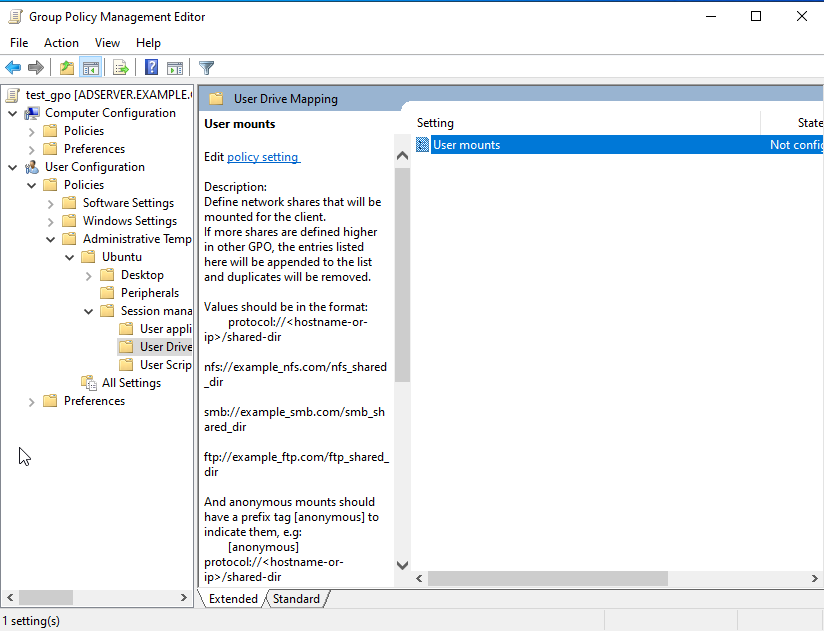
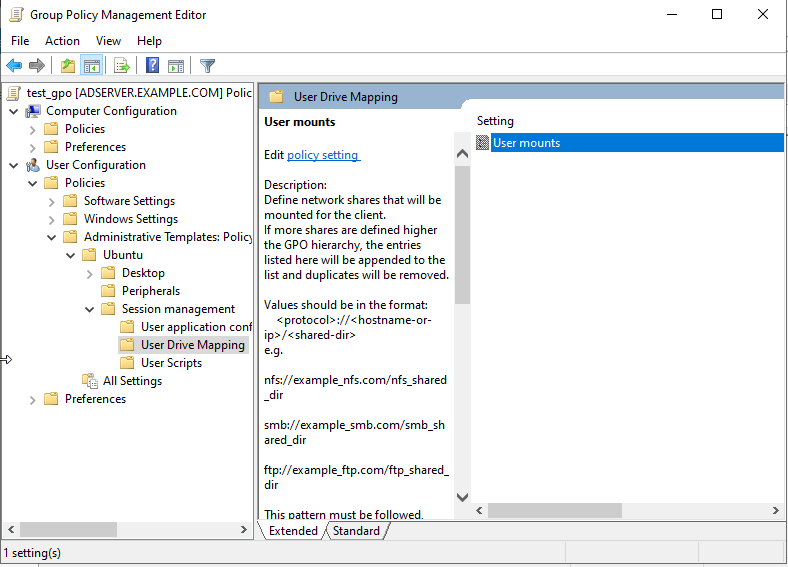
Updating documentation

Changed region(s): [[0.0, 0.0, 1.0, 1.0]]

diff --git a/doc/09.-Network-shares.md b/doc/09.-Network-shares.md
@@ -12,7 +12,7 @@ This feature is available only for subscribers of **Ubuntu Pro**.
 
 The mount process for these mounts is triggered at the moment a user logs in. User mounts are accessible in the file manager and the user has the ability to unmount them manually.
 
-Credentials authentication for mounts are disabled on adsys. Instead, authentication is done with the Kerberos ticket present on the machine. If the mount is set to anonymous, then the administrator must ensure that the shared drive supports anonymous access and that the permissions for the directory are set accordingly.
+By default, the mount process is made anonymously and it's up to the administrator to ensure the safety and the permissions of the shared location. In cases of authentication needed, a kerberos tag can be added to the shared drive entry (as described on the `Setting up the policy` section).
 
 User mount policies are located under `User Configuration > Policies > Administrative Templates > Ubuntu > Session management > User Drive Mapping`, as shown in the following picture.
 
@@ -20,9 +20,11 @@ User mount policies are located under `User Configuration > Policies > Administr
 
 ### Setting up the policy
 
-The form is a list of shared drives that should be mounted for the user. They must follow the structure {protocol}://{hostname or ip}/{shared location}. If the drive is to be mounted anonimously, the tag [anonymous] should be added as a prefix to the listed entry, i.e. [anonymous]{protocol}://{hostname or ip}/{shared location}.
+The form is a list of shared drives that should be mounted for the user. They must follow the structure {protocol}://{hostname or ip}/{shared location}. If the mount requires kerberos authentication, the tag [krb5] must be added as a prefix to the listed entry, i.e. [krb5]{protocol}://{hostname or ip}/{shared location}.
 
 All entries must be separated by a line break.
+
+Values that were not formatted accordingly to the rules specified will cause the policy setup to fail.
 
 ![List of user mounts example](images/Network-shares/user-mounts-list.png)
 
@@ -34,7 +36,9 @@ The policy strategy is "append". Therefore, if multiple policies defining mount 
 
 ### Errored mounts
 
-Should the mounting of a entry listed in the policy fail, adsys will continue through the other entries listed in the policy, mounting the ones that it can and logging the ones that could not be mounted.
+Adsys will fail to apply the policy and prevent the login if there's a badly formatted entry listed in the policy or if there is some irregularity on the run directory of the client.
+
+After applying the policy, the mounting process is up to the correctness of the specified entries and gvfs. If the mounting of an entry fails, adsys will continue through the other ones listed, mounting the ones that it was able to and logging the ones that could not be mounted.
 
 ### Unmounting
 
